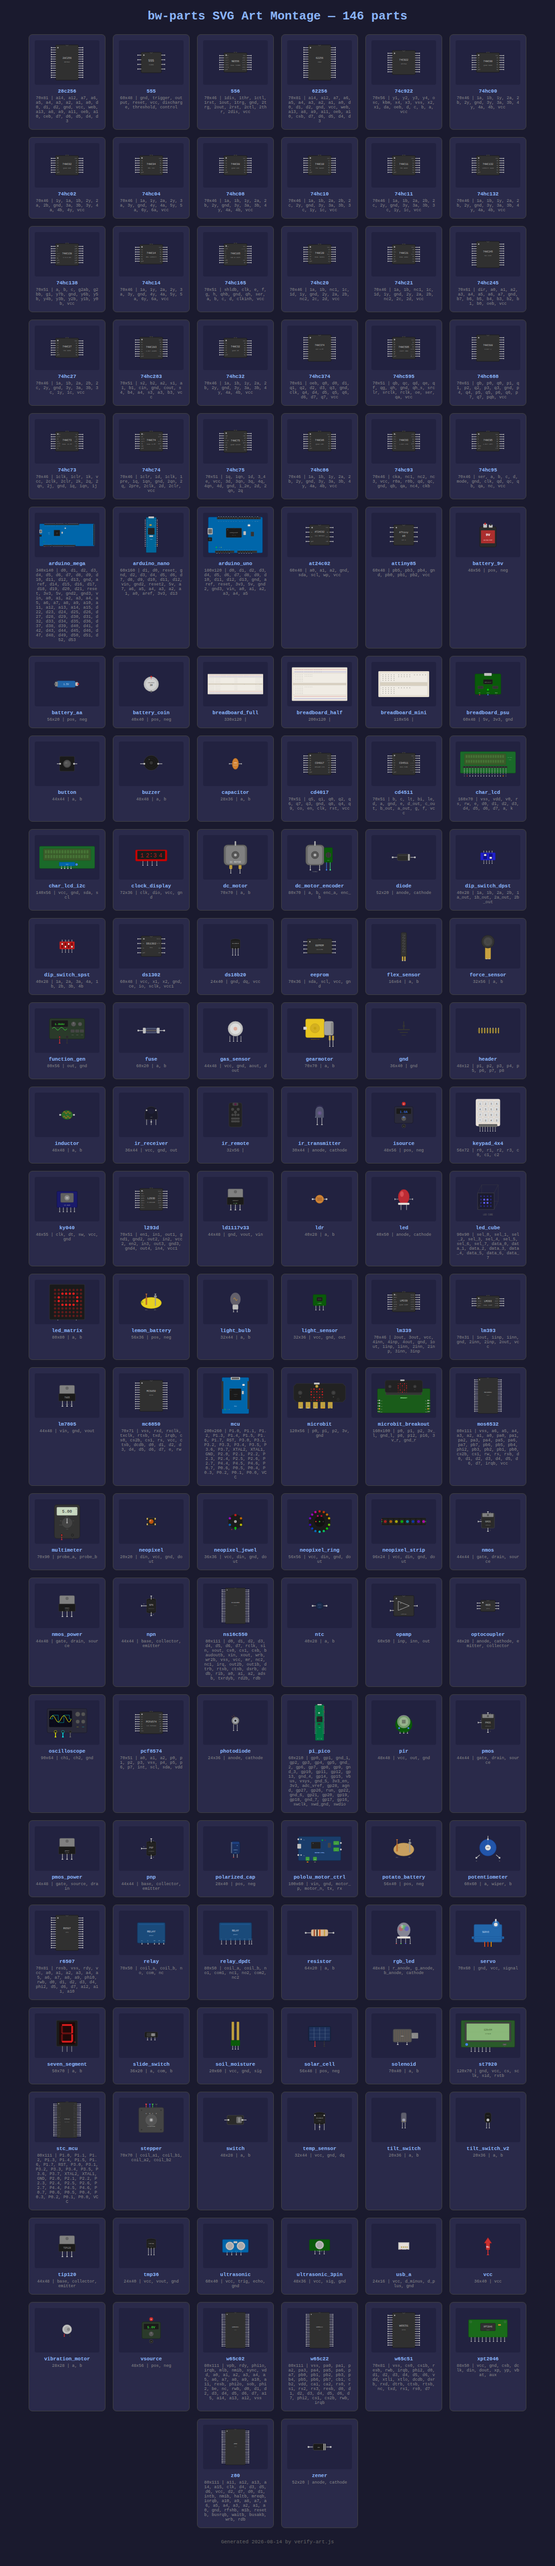
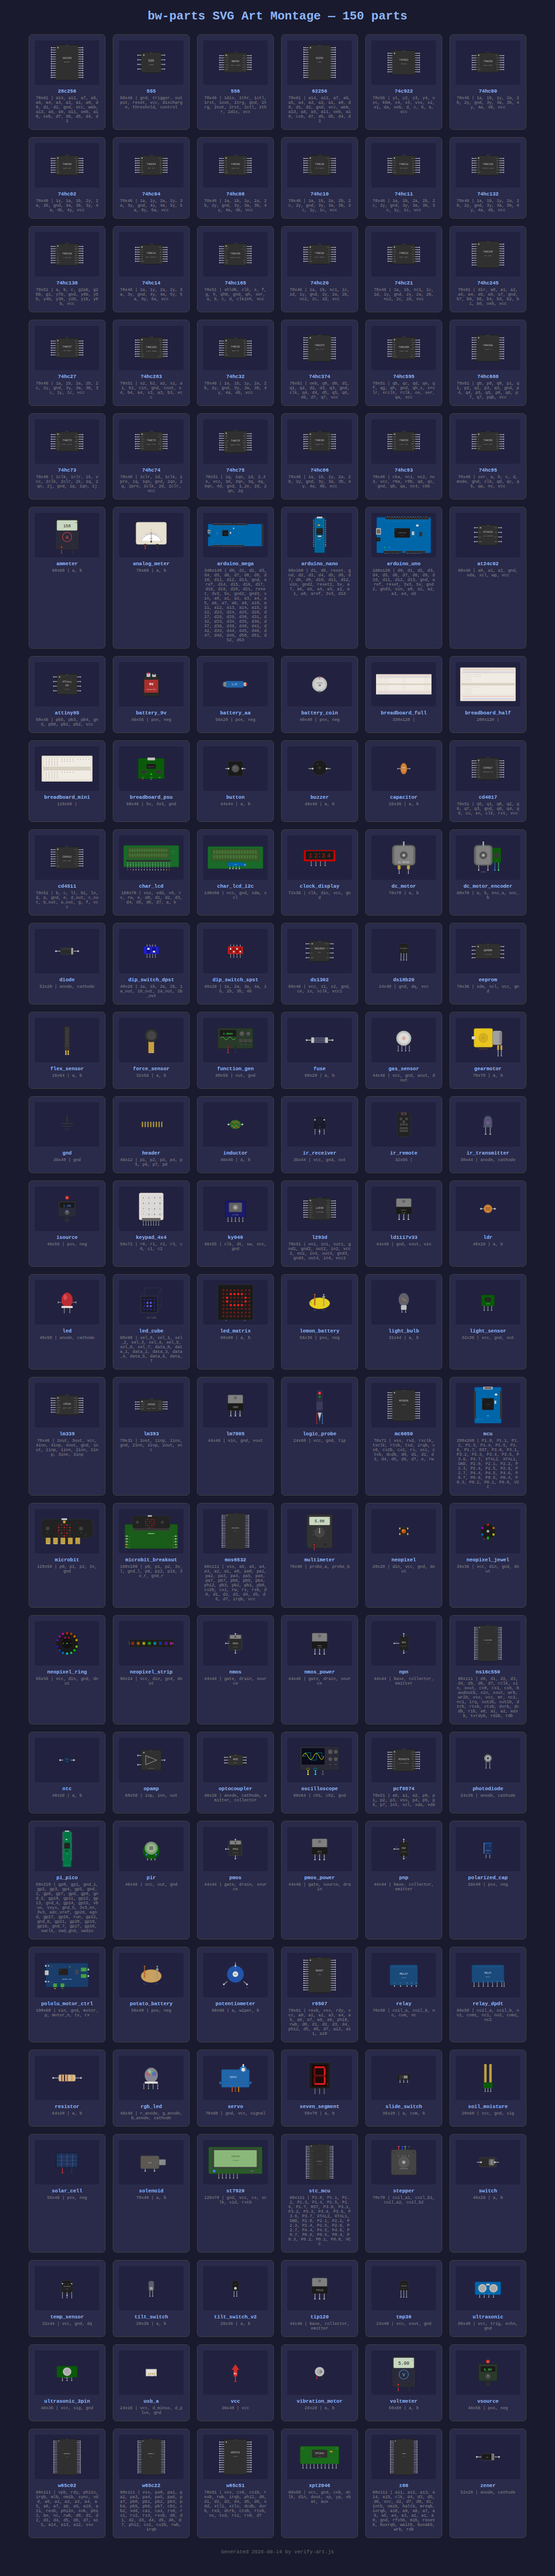
Add 4 bench instruments: voltmeter, ammeter, analog_meter, logic_probe
Dedicated measurement parts for bench-meters.js engine models.
Voltmeter/ammeter: digital-display instruments with a/b terminals.
Analog_meter: moving-coil d'Arsonval face with semicircular scale,
needle at mid-deflection (static thumbnail; live needle from
state.deflection 0..1, scale label from params.fullScale).
Logic_probe: pen-shaped with H/L/P indicator LEDs, vcc/gnd/tip
terminals (live state.level high/low/float + state.pulsing lamp).
All SVGs are palette thumbnails — live rendering is bw-circuit-ui's
responsibility via getDeviceState JSX. Catalog updated to 151 parts.

diff --git a/PARTS-CATALOG.md b/PARTS-CATALOG.md
@@ -282,6 +282,25 @@ sidecars).
 > ST7920: PSB pin shown on artwork strapped to GND (serial mode); not
 > in the terminal list as the engine assumes serial-only operation.
 
+## Bench Instruments — Engine-modeled (4 kinds)
+
+Dedicated bench measurement instruments with live-state display. SVGs are
+static palette thumbnails; bw-circuit-ui renders live readings/needle/lamp
+via `getDeviceState` in JSX (same pattern as meter/oscilloscope).
+
+| # | Kind slug | Name | Terminals | State fields | Art |
+|---|-----------|------|-----------|-------------|-----|
+| 148 | `voltmeter` | Bench Voltmeter | a (+), b (-) | value, unit | done |
+| 149 | `ammeter` | Bench Ammeter (series) | a (+), b (-) | value, unit | done |
+| 150 | `analog_meter` | Analog Panel Meter | a (+), b (-) | state.deflection (0..1), params.fullScale | done |
+| 151 | `logic_probe` | Logic Probe | vcc, gnd, tip | state.level (high/low/float), state.pulsing | done |
+
+> Engine source: bench-meters.js. Voltmeter and analog_meter are parallel
+> instruments; ammeter is a series instrument (internal shunt). Logic probe
+> needs VCC/GND power plus a tip contact.
+> Live state rendering is a bw-circuit-ui responsibility — these SVGs show
+> static representative values as palette thumbnails only.
+
 ## Engine-only parts (not in reference library)
 
 Modeled in bw-board, useful, not in the Tinkercad library. Kept as extras.
@@ -314,13 +333,14 @@ Modeled in bw-board, useful, not in the Tinkercad library. Kept as extras.
 | Multi-arch boards | 3 | 3 |
 | Retro tier | 13 | 13 |
 | Tier 2 additions | 9 | 9 |
+| Bench instruments | 4 | 4 |
 | Engine-only extras | 15 | 15 |
 | Declined | 1 | — |
-| **Total** | **147 + 1 declined** | **147** |
+| **Total** | **151 + 1 declined** | **151** |
 
 ### Art status: complete
 
-All 147 parts have SVG art and JSON terminal sidecars (breadboard is catalog-only). No pending items.
+All 151 parts have SVG art and JSON terminal sidecars (breadboard is catalog-only). No pending items.
 
 ### Pin tables (datasheet-audited)
 
